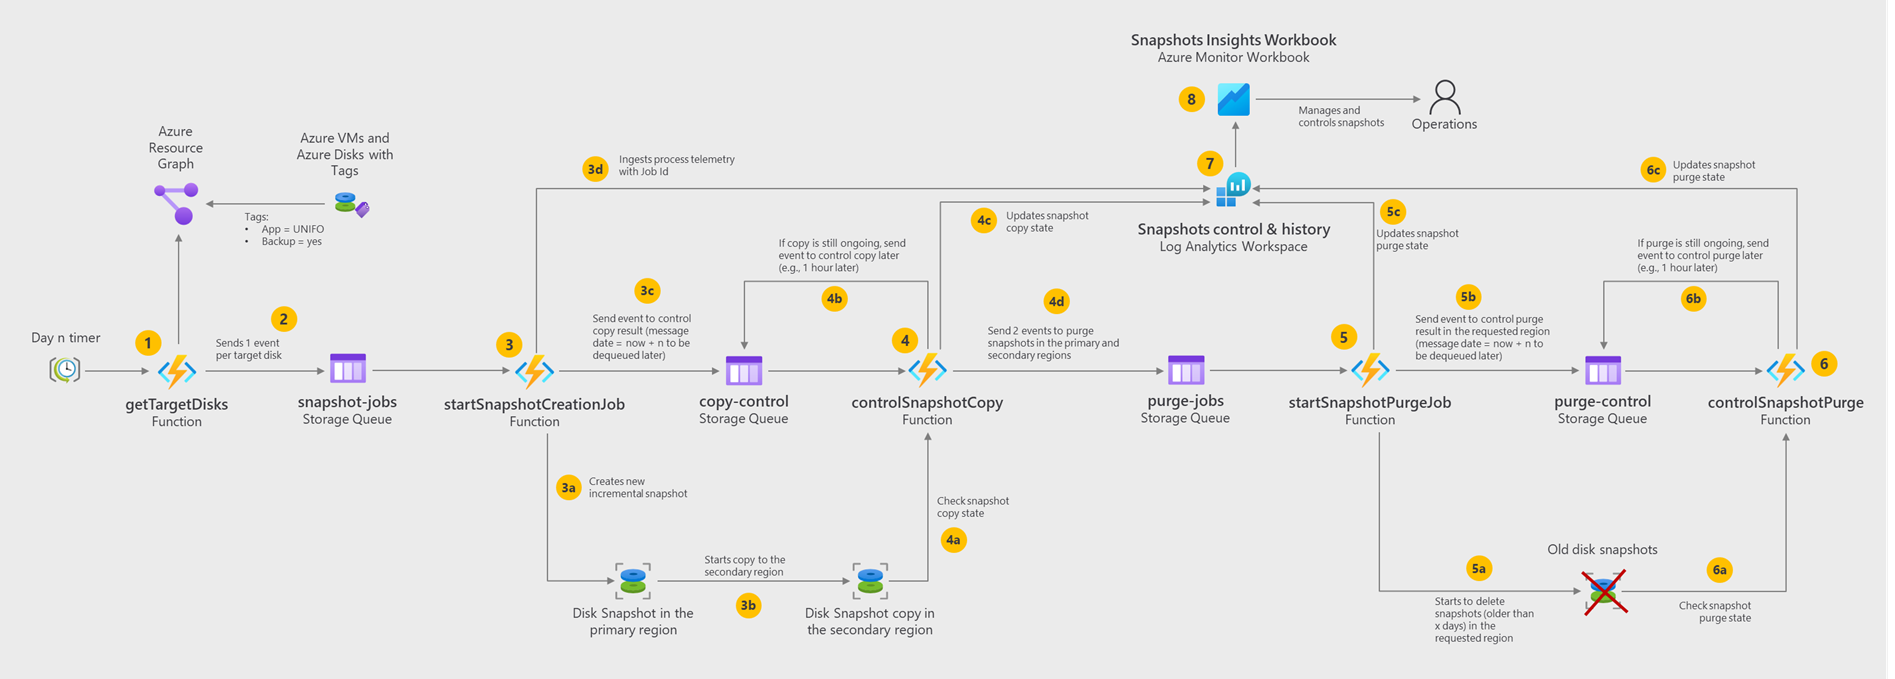
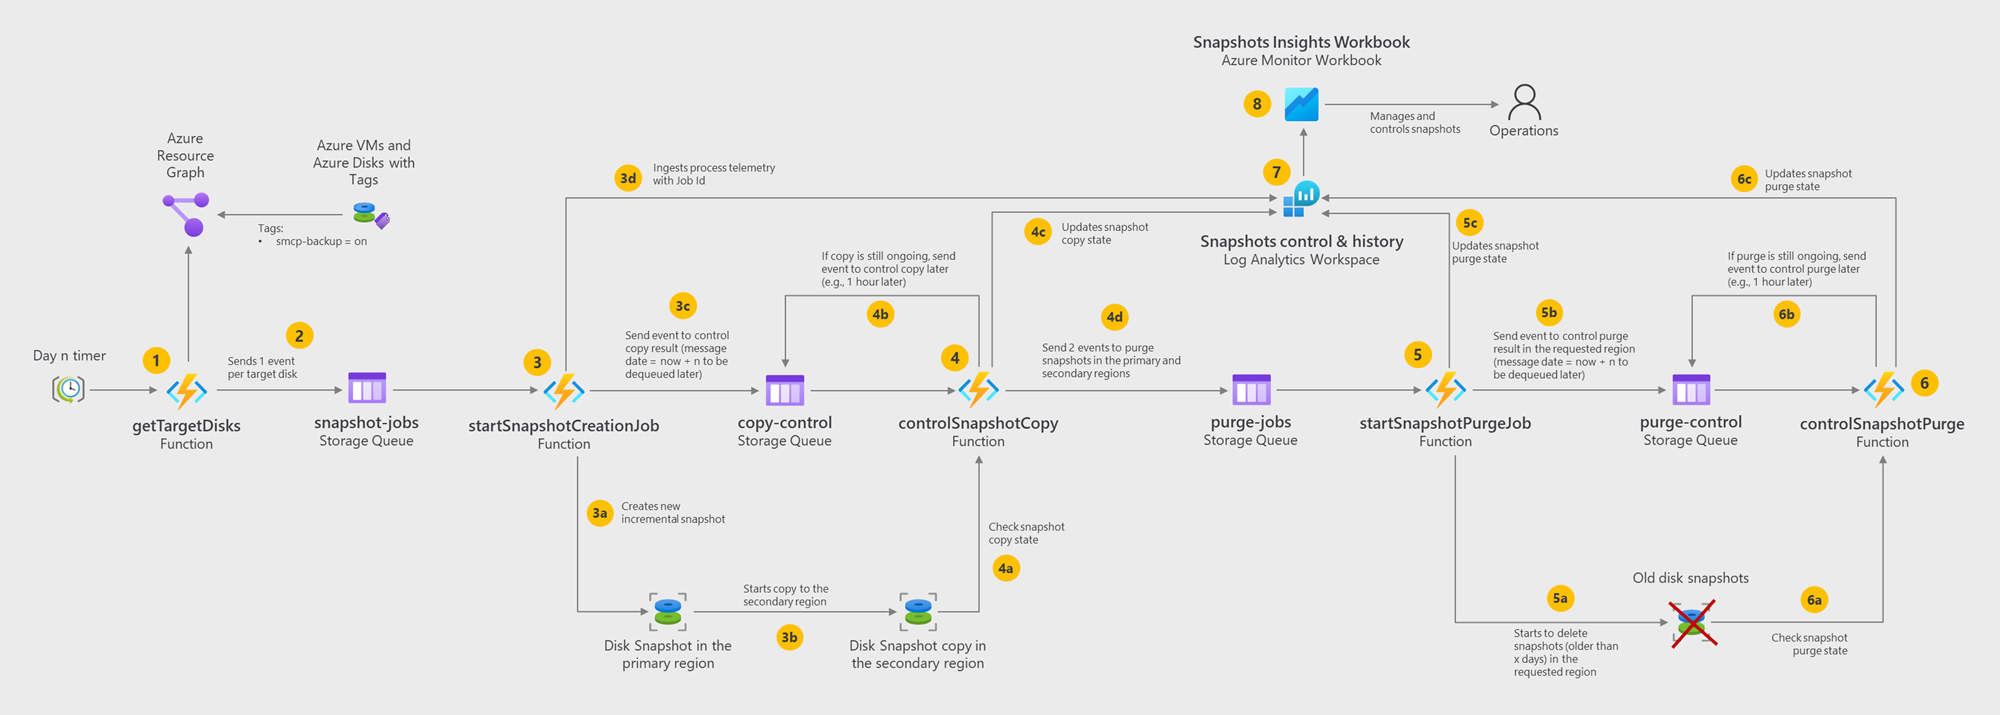
v1

diff --git a/src/controllers/snapshot.manager.ts b/src/controllers/snapshot.manager.ts
@@ -26,7 +26,10 @@ export class SnapshotManager {
                     createOption: "Copy",
                     sourceResourceId: source.diskId,
                 },
-                incremental: true // Set to true for incremental snapshot
+                incremental: true, // Set to true for incremental snapshot
+                tags: { 
+                    "smcp-location-type": "primary"
+                }
             };
 
             // New snapshot name
@@ -75,7 +78,10 @@ export class SnapshotManager {
                     createOption: "CopyStart",
                     sourceResourceId: source.id, // Use the source snapshot ID
                 },
-                incremental: true // Set to true for incremental snapshot
+                incremental: true, // Set to true for incremental snapshot
+                tags: { 
+                    "smcp-location-type": "secondary"
+                }
             };
 
             const result = await computeClient.snapshots.beginCreateOrUpdate(
@@ -126,7 +132,10 @@ export class SnapshotManager {
                 if (
                     snapshot.timeCreated &&
                     new Date(snapshot.timeCreated) < cutoff &&
+                    snapshot.creationData &&
+                    snapshot.creationData.sourceResourceId &&
                     snapshot.creationData?.sourceResourceId?.toLowerCase() === diskId.toLowerCase() &&
+                    snapshot.location &&
                     snapshot.location?.toLowerCase() === location.toLowerCase()
                 ) {
                     this.logger.info(
@@ -166,6 +175,9 @@ export class SnapshotManager {
                 if (
                     snapshot.timeCreated &&
                     new Date(snapshot.timeCreated) < cutoff &&
+                    snapshot.creationData &&
+                    snapshot.creationData.sourceResourceId &&
+                    sourceSnapshotName &&
                     sourceSnapshotName.toLowerCase().includes(`-${diskName.toLowerCase()}`) &&
                     snapshot.location?.toLowerCase() === location.toLowerCase()
                 ) {

diff --git a/src/controllers/graph.manager.ts b/src/controllers/graph.manager.ts
@@ -14,7 +14,7 @@ export class ResourceGraphManager {
         this.clientGraph = new ResourceGraphClient(credential);
     }
 
-    // Get all azure disks to backup using snapshots (tag backup=on)
+    // Get all azure disks to backup using snapshots (tag smcp-backup=on)
     public async getDisksToBackup(): Promise<Array<SnapshotSource>> {
 
         try {
@@ -22,7 +22,7 @@ export class ResourceGraphManager {
                 {
                     query: `resources
                     | where type =~ 'microsoft.compute/virtualMachines'
-                    | where tags["backup"] =~ "on"
+                    | where tags["smcp-backup"] =~ "on"
                     | project vmName=name, resourceGroup, vmId = id, vmSize = properties.hardwareProfile.vmSize, location, subscriptionId
                     | join (
                         resources

diff --git a/src/controllers/log.manager.ts b/src/controllers/log.manager.ts
@@ -3,7 +3,7 @@ import { ILogger } from '../common/logger';
 import { LogsIngestionClient, isAggregateLogsUploadError } from "@azure/monitor-ingestion";
 import { DefaultAzureCredential } from "@azure/identity";
 import { LogIngestionError, LogIngestionAggregateError, _getString } from "../common/apperror";
-import { LogEntry } from "../common/interfaces";
+import { JobLogEntry } from "../common/interfaces";
 
 
 export class LogManager {
@@ -15,7 +15,7 @@ export class LogManager {
         this.logClient = new LogsIngestionClient(process.env.LOGS_INGESTION_ENDPOINT, credential);
     }
 
-    public async uploadLog(log: LogEntry) {
+    public async uploadLog(log: JobLogEntry) {
 
         try {
             if (!process.env.LOGS_INGESTION_ENDPOINT || !process.env.LOGS_INGESTION_RULE_ID || !process.env.LOGS_INGESTION_STREAM_NAME) {

diff --git a/README.md b/README.md
@@ -24,7 +24,7 @@ Older snapshots are automatically purged to optimize storage costs and comply wi
 
 The solution is built using **Azure Functions** and **Azure Storage**, enabling a scalable and event-driven approach to managing VM disk snapshots.
 
-- A **primary Azure Function**, triggered by a **daily timer**, scans all Azure Virtual Machines for a specific **backup tag**. For each VM identified, it enqueues a message in an **Azure Storage Queue**, signaling the need to initiate a **snapshot job**.
+- A **primary Azure Function**, triggered by a **daily timer**, scans all Azure Virtual Machines for a specific **smcp-backup tag**. For each VM identified, it enqueues a message in an **Azure Storage Queue**, signaling the need to initiate a **snapshot job**.
 
 - A **secondary Azure Function**, triggered by the queue message, performs the following tasks:
   - Creates a **new incremental snapshot** of the VM's disk.
@@ -34,8 +34,9 @@ The solution is built using **Azure Functions** and **Azure Storage**, enabling 
 This modular and asynchronous design ensures reliable execution, scalability, and clear separation of concerns between scheduling, orchestration, and snapshot lifecycle management.
 
 ![alt text](docs/images/arch.png)
+![alt text](image.png)
 
-1. The snapshots creation process runs periodically (e.g., daily), triggered by a scheduler. All the disks belonging to a VM tagged with “backup=on” are considered for snapshot creation.
+1. The snapshots creation process runs periodically (e.g., daily), triggered by a scheduler. All the disks belonging to a VM tagged with "smcp-backup=on" are considered for snapshot creation.
 
 2. For tagged VM disks, a snapshot job creation message is sent to the snapshot-jobs storage queue.
 
@@ -159,3 +160,4 @@ You can check the guidelines for development in the [DEVELOPMENT](docs/developme
 ## References
 
 - [Azure Snapshots Insights Workbook](https://github.com/dolevshor/Azure-Snapshots-Insights)
+- [Azure Snapshots: Simplify Management and Monitoring](https://techcommunity.microsoft.com/blog/azureforisvandstartupstechnicalblog/azure-snapshots-simplify-management-and-monitoring/4255837)

diff --git a/docs/development.md b/docs/development.md
@@ -18,6 +18,11 @@ In the end you should have the following resources created:
 
 ![alt text](images/resources.png)
 
+Additionally, for running the function app locally and access other Azure resources, you need to have a service principal, give the proper role assignements to the service principal and configure it locally in the `local.settings.json` file. The provided script `scripts\pre-dev-local.sh` helps to automate all these steps.
+
+```bash
+./prep-dev-local.sh
+```
 
 ## Create a local functions project
 
